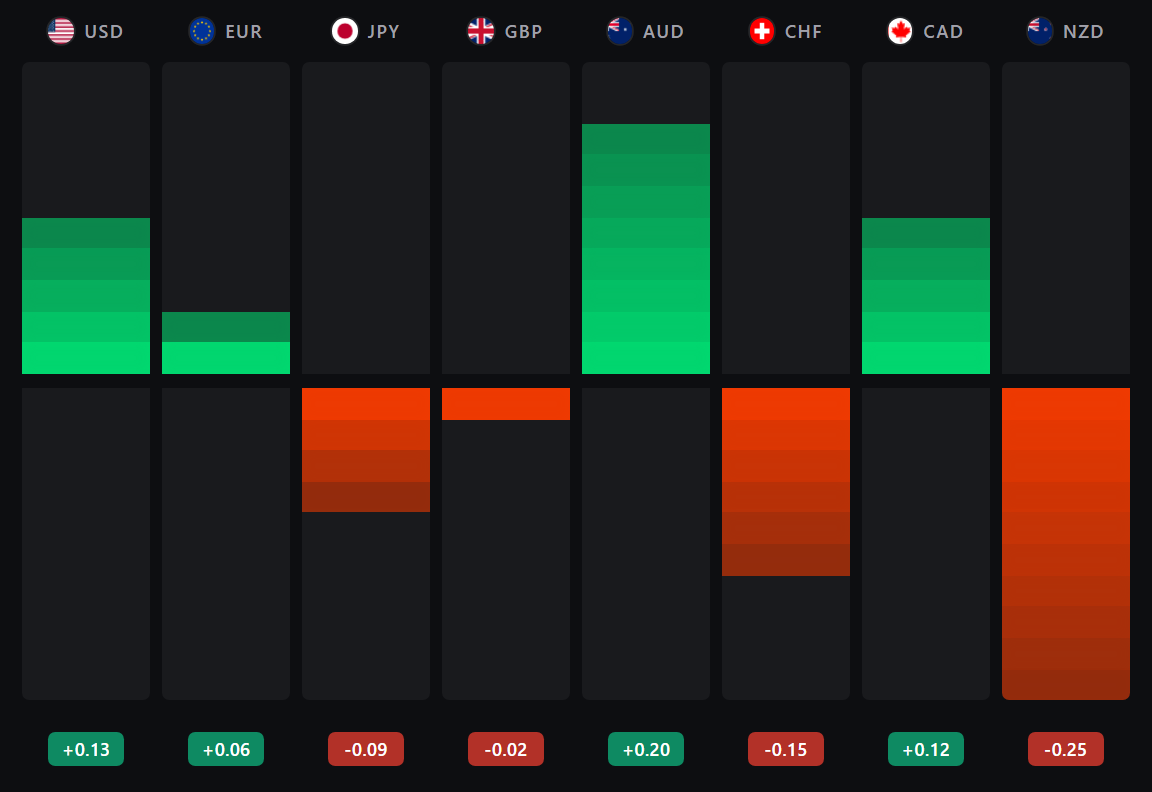
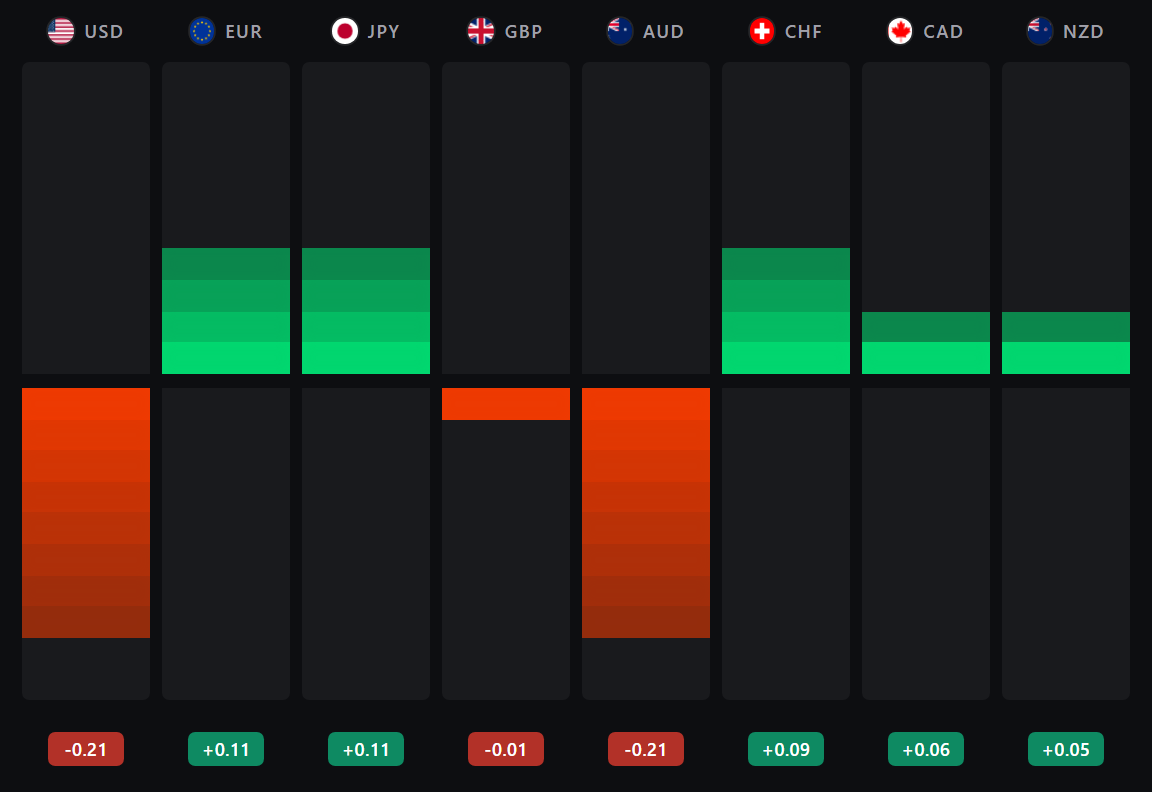
Securite : le flux live exige une session, et le jeton tourne enfin
Demande : verifier qu on ne puisse pas se connecter a deux sur un compte. La
verification a montre que le double LOGIN est bien bloque, mais pas le double
USAGE — et elle a surtout revele une fuite plus large que le partage de compte.

1) LE WEBSOCKET N ETAIT PAS AUTHENTIFIE. Le gestionnaire de connexion envoyait
d emblee les 200 dernieres actualites, les rapports Analystes et la recherche
bancaire a N IMPORTE QUELLE connexion. La seule barriere etait un controle
d origine qui accepte explicitement une origine ABSENTE (donc tout client hors
navigateur) et qui, de toute facon, ne s active que si ALLOWED_ORIGINS est
renseigne : verifie sur le serveur, la variable est ABSENTE en production. Le
coeur du produit vendu etait donc lisible sans compte.
Le flux applique desormais la MEME regle que requireAuth, ni plus ni moins.
PREUVE, contre le serveur local : sans cookie, avec une Origin legitime, ou avec
un cookie bidon -> 0 message, fermeture 1008. Session client valide -> 22
messages. Session admin (exemptee de jeton) -> recoit. Session vieille de 30 h ->
refusee. Seul le desk ouvre un WebSocket ; la landing passe par des routes REST,
elle n est pas touchee.

2) UNE SESSION EJECTEE POUVAIT VOLER LE COMPTE. Le prefixe /api/auth/ est PUBLIC,
donc requireAuth ne voit pas PUT /api/auth/me/password : une session supplantee
pouvait encore changer le mot de passe avec l ancien qu elle connaissait et
verrouiller le proprietaire dehors. Garde locale posee sur /me/password et
[…]

diff --git a/server.js b/server.js
@@ -282,6 +282,19 @@ const _sessionEpoch = new Map();
    l'aurait déconnectée au premier démarrage, ce qui aurait été un vrai effet de bord. */
 const _SESS_EPOCH_KV = 'sess:epochs';
 let _sessEpochSauveT = null;
+/* Ferme les WebSockets d un compte dont le jeton n est plus valide. `garder` = le jeton qui
+   survit (celui de la session qui vient d agir), ou null pour tout fermer. */
+function _fermerSockets(uid, garder) {
+  try {
+    if (typeof wss === 'undefined' || !wss.clients) return;
+    wss.clients.forEach((c) => {
+      if (c._uid === uid && (!garder || c._stoken !== garder)) {
+        try { c.close(1008, 'session terminée'); } catch (e) {}
+      }
+    });
+  } catch (e) {}
+}
+
 function _sessEpochSauver() {                   // écriture groupée : plusieurs connexions rapprochées = un seul write
   if (_sessEpochSauveT) return;
   _sessEpochSauveT = setTimeout(() => {
@@ -316,6 +329,30 @@ function _sessionExpired(req) {
   if (!req.session?.userId) return false;
   if (!req.session.loginAt) { req.session.loginAt = Date.now(); return false; }   // legacy → ancrée maintenant
   return Date.now() - req.session.loginAt > _sessionMaxMs(req);
+}
+
+/* Regle d ejection, EXTRAITE de requireAuth pour etre appliquee partout ou elle manquait : au
+   WebSocket, et aux routes /api/auth/me/* que le prefixe public exemptait du garde.
+   On ne change RIEN a la politique : memes conditions, meme tolerance pour les sessions anterieures
+   au mecanisme (celles qui n ont pas de jeton). Une seule definition, donc plus de divergence
+   possible entre les endroits ou elle s applique. */
+function _sessionMorte(req) {
+  if (!req.session || !req.session.userId) return 'absente';
+  if (_sessionExpired(req)) return 'expiree';
+  const sid = String(req.session.userId);
+  if (_forceLogout.has(sid)) return 'deconnectee';
+  if (auth.isEmailBlacklisted(req.session.user && req.session.user.email)) return 'blacklistee';
+  const ep = _sessionEpoch.get(sid);
+  if (ep && req.session.stoken && ep !== req.session.stoken) return 'supplantee';
+  return null;
+}
+
+/* Garde LOCALE pour les routes sous un prefixe public. requireAuth ne peut pas servir ici : il
+   sort en next() des qu il voit /api/auth/, precisement le prefixe de ces routes. */
+function _gardeSession(req, res, next) {
+  const mort = _sessionMorte(req);
+  if (mort) { req.session = null; return res.status(401).json({ error: 'Session terminée', loggedOut: true }); }
+  next();
 }
 
 function requireAuth(req, res, next) {
@@ -509,6 +546,16 @@ app.post('/api/auth/login', async (req, res) => {
       req.session.stoken = _stok;
       _sessionEpoch.set(String(user.id), _stok);
       _sessEpochSauver();   // le registre doit survivre au prochain redeploiement
+      /* Le WebSocket vit des heures : sans cette boucle, la session ejectee du desk continuerait de
+         recevoir le fil temps reel jusqu a ce que l onglet soit ferme. On coupe les sockets du meme
+         compte dont le jeton n est plus le bon. */
+      try {
+        wss.clients.forEach((c) => {
+          if (c._uid === String(user.id) && c._stoken && c._stoken !== _stok) {
+            try { c.close(1008, 'session supplantée'); } catch (e) {}
+          }
+        });
+      } catch (e) {}
     }
     res.json({ ok: true, role: user.role });
   } catch (e) {
@@ -703,6 +750,7 @@ function _npCleanCfg(b) {
 // (id stable 'dtpu-AAAAMMJJ-slug', ts = date du déploiement, ton annonce produit, zéro jargon).
 // Le client les injecte en silence dans l'onglet DTP des alertes (fenêtre de fraîcheur 7 j côté panneau).
 const DTP_UPDATES = [
+  { id: 'dtpu-20260819-securite-session', ts: Date.UTC(2026, 7, 19, 22, 0), title: 'Sécurité : changer votre mot de passe déconnecte désormais les autres appareils', desc: 'Jusqu ici, modifier son mot de passe ne coupait aucune session déjà ouverte ailleurs : le réflexe naturel de quelqu un dont le compte a fuité restait sans effet. C est corrigé, et l appareil depuis lequel vous faites le changement reste connecté. Le flux temps réel du desk exige lui aussi une session valide, et il se ferme immédiatement quand une session prend fin.' },
   { id: 'dtpu-20260820-widgets-reglages', ts: Date.UTC(2026, 7, 20, 14, 0), title: 'Les nouveaux widgets gagnent leurs réglages, et leurs vignettes leurs couleurs', desc: 'Quatre des widgets ajoutés cette semaine n avaient aucun panneau de réglages, et six ne laissaient même pas changer de paire : un défaut de configuration de ma part, corrigé. Chacun dispose maintenant de deux à quatre réglages utiles : horizon de variation sur la matrice, devise mise en avant, moyenne ou médiane sur la volatilité, unité en pips ou en pourcentage, second seuil de comparaison, alerte quand le cours approche d un extrême, verrou de lecture seule sur les notes. Les vignettes de la bibliothèque, elles, reprennent la palette des widgets historiques au lieu du tout doré.' },
   { id: 'dtpu-20260820-notes-ticklist', ts: Date.UTC(2026, 7, 20, 8, 0), title: 'Notes et Liste de suivi : deux outils qui vous suivent d un appareil à l autre', desc: 'Le bloc-notes garde vos observations par compte : vous les retrouvez sur un autre poste, et chaque carte a son propre document, même dupliquée. La liste de suivi affiche les paires que vous choisissez avec leur cours et leur variation du jour. Elle s en tient volontairement à ces deux colonnes : les indicateurs de biais et de positionnement de la source ont des valeurs de repli qu il serait trompeur de présenter comme des verdicts.' },
   { id: 'dtpu-20260819-amplitude-seance', ts: Date.UTC(2026, 7, 19, 23, 0), title: 'Amplitude par séance : ce que la paire parcourt à Tokyo, Londres et New York', desc: 'Un nouveau widget compare l amplitude moyenne d une paire pendant chacune des trois grandes séances, aux heures locales de chaque place et en tenant compte des changements d heure, qui ne tombent pas le même jour d un continent à l autre. Les séances se chevauchent : la carte le rappelle, la somme des trois ne fait pas la journée.' },
@@ -1841,7 +1889,15 @@ app.put('/api/admin/users/:id', requireAdmin, async (req, res) => {
 // Déconnexion FORCÉE (admin) : tue la session active de l'utilisateur SANS le suspendre → éjecté du desk
 // au prochain heartbeat (~20 s) / appel API. Un nouveau login légitime lève l'ordre.
 app.post('/api/admin/users/:id/disconnect', requireAdmin, (req, res) => {
-  _forceLogout.add(String(req.params.id));
+  /* _forceLogout est un Set EN MEMOIRE, vide a chaque demarrage : l ordre de deconnexion
+     disparaissait au prochain deploiement, alors que le cookie du client, lui, survit. La seule
+     arme manuelle contre le partage se desarmait donc toute seule. On double l ordre d une
+     ROTATION DE JETON, qui est persistee et verifiee partout. */
+  const _id = String(req.params.id);
+  _forceLogout.add(_id);
+  _sessionEpoch.set(_id, require('crypto').randomUUID());
+  _sessEpochSauver();
+  _fermerSockets(_id, null);
   res.json({ ok: true });
 });
 
@@ -1881,6 +1937,11 @@ app.post('/api/admin/users/:id/password', requireAdmin, async (req, res) => {
   try {
     const id = String(req.params.id);   // id TEXTE/uuid (cf. migration) → +id = NaN cassait reset MDP pour les comptes uuid
     await auth.changePassword(id, req.body.password);
+    // Reinitialiser un mot de passe depuis le panneau doit COUPER les sessions en cours, sinon
+    // l operation ne sert a rien contre un compte visiblement partage.
+    _sessionEpoch.set(String(id), require('crypto').randomUUID());
+    _sessEpochSauver();
+    _fermerSockets(String(id), null);
     res.json({ ok: true });
     // Email de réinitialisation (non bloquant) avec le nouveau mot de passe
     auth.getUserById(id)
@@ -2172,8 +2233,10 @@ app.post('/api/ui-prefs', async (req, res) => {
 });
 
 // ─── User self-service password change ────────────────────────────────────────
-app.put('/api/auth/me/password', async (req, res) => {
-  if (!req.session?.userId) return res.status(401).json({ error: 'Non autorisé' });
+/* ⚠ Cette route vit sous le prefixe PUBLIC /api/auth/ : requireAuth ne la voit pas. Sans le garde
+   local, une session SUPPLANTEE (donc censement morte) pouvait encore changer le mot de passe avec
+   l ancien qu elle connaissait, et verrouiller le proprietaire dehors. */
+app.put('/api/auth/me/password', _gardeSession, async (req, res) => {
   const { currentPassword, newPassword } = req.body || {};
   if (!currentPassword || !newPassword) return res.status(400).json({ error: 'Champs requis' });
   if (newPassword.length < 6) return res.status(400).json({ error: 'Le nouveau mot de passe doit contenir au moins 6 caractères' });
@@ -2181,6 +2244,15 @@ app.put('/api/auth/me/password', async (req, res) => {
     const user = await auth.verifyLogin(req.session.user.email, currentPassword);
     if (!user) return res.status(400).json({ error: 'Mot de passe actuel incorrect' });
     await auth.changePassword(req.session.userId, newPassword);
+    /* Le jeton TOURNE : sans cela, changer son mot de passe ne coupait personne. C etait le
+       reflexe naturel du client dont le compte fuit, et il n avait aucun effet — les sessions
+       ouvertes ailleurs survivaient jusqu a 30 jours. On pose le nouveau jeton sur la session
+       APPELANTE pour ne pas deconnecter celui qui vient de changer son mot de passe. */
+    const _neuf = require('crypto').randomUUID();
+    req.session.stoken = _neuf;
+    _sessionEpoch.set(String(req.session.userId), _neuf);
+    _sessEpochSauver();
+    _fermerSockets(String(req.session.userId), _neuf);
     res.json({ ok: true });
   } catch (e) {
     console.error('[Auth] password change error:', e.message);
@@ -2582,7 +2654,8 @@ app.get('/api/admin/whop-reconcile', requireSameOrigin, requireAdmin, async (_re
 });
 
 // Mise à jour du profil (nom) par l'utilisateur — persiste en BDD + session
-app.put('/api/auth/me/profile', async (req, res) => {
+// Meme angle mort que /me/password : le prefixe public exempte cette route de requireAuth.
+app.put('/api/auth/me/profile', _gardeSession, async (req, res) => {
   if (!req.session?.userId) return res.status(401).json({ error: 'Non autorisé' });
   // (Audit 28/07 — XSS stocké) Le nom est saisi par N'IMPORTE QUEL client et ré-affiché dans la
   // session ADMIN : on retire balises/contrôles à la SOURCE (le front échappe aussi — défense en
@@ -16645,12 +16718,25 @@ wss.on('connection', (ws, req) => {
     const ok = !origin || ALLOWED_ORIGINS.some(o => origin === o || origin.endsWith(o));
     if (!ok) { try { ws.close(1008, 'origin not allowed'); } catch {} return; }
   }
+  /* ⚠ AUTHENTIFICATION DU FLUX (19/08). Ce gestionnaire n en avait AUCUNE : il envoyait d emblee
+     les 200 dernieres actualites, les rapports Analystes et la recherche bancaire a n importe quelle
+     connexion. La seule barriere etait le controle d origine ci-dessus, qui (a) accepte
+     explicitement une origine ABSENTE — donc tout client hors navigateur — et (b) ne s active que si
+     ALLOWED_ORIGINS est renseigne, ce qui n etait PAS le cas en production (verifie sur le serveur).
+     Le coeur du produit vendu etait donc lisible sans compte.
+     On applique ici la MEME regle que requireAuth, ni plus ni moins. Seul le desk ouvre un
+     WebSocket (public/js/app.js) : la landing passe par des routes REST, elle n est pas touchee. */
+  const _uid = _wsUserIdFromReq(req);   // execute le middleware de session : req.session est peuple
+  const _mortWs = _sessionMorte(req);
+  if (_mortWs) {
+    try { ws.close(1008, 'session ' + _mortWs); } catch (e) {}
+    return;
+  }
   console.log(`[WS] Client connected (${wss.clients.size})`);
 
-  // Présence : on associe ce WS à l'utilisateur (cookie de session) → statut "en ligne".
-  const _uid = _wsUserIdFromReq(req);
   const _role = (req.session && req.session.user && req.session.user.role) || null;
-  ws._uid = _uid; ws._role = _role;   // tag du socket → envoi CIBLE (notif chat instantanee, sans polling)
+  // Le jeton tague le socket : une connexion plus recente pourra fermer celui-ci (voir le login).
+  ws._uid = _uid; ws._role = _role; ws._stoken = req.session.stoken || null;
   if (_uid) { _onlineUsers.set(_uid, (_onlineUsers.get(_uid) || 0) + 1); _stampSeen(_uid); }   // present -> derniere presence = maintenant
 
   ws.send(JSON.stringify({ type: 'initial', items: allNews.slice(0, 200), total: allNews.length }));

diff --git a/public/index.html b/public/index.html
@@ -30,7 +30,7 @@
        dépendre du preload du binaire. (Le déplacement de la fenêtre est géré par l'app 1.0.10+ : plus
        d'app-region:drag ici.) Web (hors Electron) : non affecté (l'UA ne contient pas « Electron »). -->
   <script>try{var _ua=navigator.userAgent||'';if(/Electron/i.test(_ua)){var _r=document.documentElement;_r.classList.add('dtp-desktop');_r.classList.add(/Mac OS X|Macintosh/i.test(_ua)?'dtp-mac':'dtp-win');}}catch(e){}</script>
-  <link rel="stylesheet" href="/css/style.css?v=20260818bbg735" />
+  <link rel="stylesheet" href="/css/style.css?v=20260819bbg736" />
 
   <!-- ══ FILET ANTI-BLOCAGE DU SPLASH, ARMÉ DÈS LE HEAD ═══════════════════════════════════════════
        Le filet vivait en FIN de <body> (ligne ~1900). Or le voile d'initialisation, lui, est déclaré
@@ -83,7 +83,7 @@
   <script defer src="https://unpkg.com/@joergdietrich/leaflet.terminator@1.1.0/L.Terminator.js"></script>
   <!-- PDF.js (Mozilla) : rendu PDF fiable sur mobile (iOS Safari inclus) via canvas ; l'iframe PDF ne s'affiche pas inline sur mobile -->
   <script defer src="https://cdnjs.cloudflare.com/ajax/libs/pdf.js/3.11.174/pdf.min.js"></script>
-  <script defer src="/js/noinspect.js?v=20260818bbg735"></script>
+  <script defer src="/js/noinspect.js?v=20260819bbg736"></script>
 </head>
 <body>
 
@@ -925,16 +925,16 @@
   </div>
 </div>
 
-<script defer src="/js/jspdf.umd.min.js?v=20260818bbg735"></script>
-<script defer src="/js/app.js?v=20260818bbg735"></script>
-<script defer src="/js/charts.js?v=20260818bbg735"></script>
-<script defer src="/js/sessionmap.js?v=20260818bbg735"></script>
+<script defer src="/js/jspdf.umd.min.js?v=20260819bbg736"></script>
+<script defer src="/js/app.js?v=20260819bbg736"></script>
+<script defer src="/js/charts.js?v=20260819bbg736"></script>
+<script defer src="/js/sessionmap.js?v=20260819bbg736"></script>
 <!-- MON DESK (widgets) : APRÈS app.js/charts.js, il consomme leurs globales (getNewsMaster,
      buildIsolatedStrength, disposeRoot…). `defer` garantit l'ordre d'exécution. -->
-<script defer src="/js/widgets.js?v=20260818bbg735"></script>
-<script defer src="/js/home.js?v=20260818bbg735"></script><!-- Espace d'accueil « workstation » (v1 admin volrod.dev, À CHAQUE CONNEXION) -->
-<script defer src="/js/i18n-dicts.js?v=20260818bbg735"></script>
-<script defer src="/js/i18n.js?v=20260818bbg735"></script>
+<script defer src="/js/widgets.js?v=20260819bbg736"></script>
+<script defer src="/js/home.js?v=20260819bbg736"></script><!-- Espace d'accueil « workstation » (v1 admin volrod.dev, À CHAQUE CONNEXION) -->
+<script defer src="/js/i18n-dicts.js?v=20260819bbg736"></script>
+<script defer src="/js/i18n.js?v=20260819bbg736"></script>
 
 <!-- ═══════════════════ PROFILE DRAWER ═══════════════════ -->
 <div class="pd-overlay" id="pd-overlay" onclick="pdClose()"></div>

diff --git a/public/admin.html b/public/admin.html
@@ -12,7 +12,7 @@
   <link rel="preconnect" href="https://fonts.gstatic.com" crossorigin />
   <!-- MÊMES POLICES QUE LE DESK (Inter + Inter Tight pour les titres) : cohérence d'identité visuelle -->
   <link href="https://fonts.googleapis.com/css2?family=Inter:wght@300;400;500;600;700&family=Inter+Tight:wght@500;600;700&display=swap" rel="stylesheet" />
-  <link rel="stylesheet" href="/css/admin.css?v=20260818bbg735" />
+  <link rel="stylesheet" href="/css/admin.css?v=20260819bbg736" />
   <!-- amCharts 5 : mêmes graphiques que le desk -->
   <script src="https://cdn.amcharts.com/lib/5/index.js"></script>
   <script src="https://cdn.amcharts.com/lib/5/xy.js"></script>
@@ -726,6 +726,6 @@
   </div>
 </div>
 
-<script src="/js/admin.js?v=20260818bbg735"></script>
+<script src="/js/admin.js?v=20260819bbg736"></script>
 </body>
 </html>

diff --git a/public/week-ahead.html b/public/week-ahead.html
@@ -154,7 +154,7 @@
     .wap-title{display:none}
   }
 </style>
-<script src="/js/noinspect.js?v=20260818bbg735"></script>
+<script src="/js/noinspect.js?v=20260819bbg736"></script>
 </head>
 <body>
   <header class="wap-top">

diff --git a/public/login.html b/public/login.html
@@ -274,7 +274,7 @@
       .lp-left-card { display: none; }
     }
   </style>
-  <script src="/js/noinspect.js?v=20260818bbg735"></script>
+  <script src="/js/noinspect.js?v=20260819bbg736"></script>
 </head>
 <body>
 
